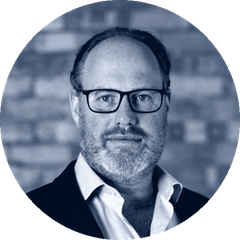
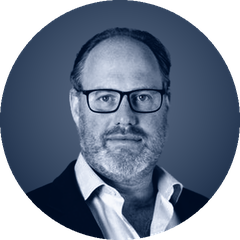
Portrait style: sharp cut-outs on a navy studio backdrop

diff --git a/tools/portrait.py b/tools/portrait.py
@@ -1,10 +1,17 @@
-"""FoundKeys Associates portrait style: navy-blue monochrome, round, 240x240 PNG.
+"""FoundKeys Associates portrait style "navy-studio-v1".
 
+Each person is cut out of their photo, placed on the same soft navy studio backdrop,
+toned in navy-blue monochrome and saved as a round 240x240 transparent PNG.
+If the cut-out tools are missing or fail, it falls back to plain navy monochrome
+of the whole photo and prints "FALLBACK".
+
+Needs: pip install rembg onnxruntime pymatting scipy pillow numpy --break-system-packages
 Usage: python3 -I tools/portrait.py <source image> <output.png>
 """
 import sys
 import numpy as np
 from PIL import Image, ImageDraw, ImageOps
+from scipy import ndimage
 
 # Colour ramp: output luminance -> navy tint (measured from the approved Hayley example).
 RAMP = [  # (level, R, G, B)
@@ -49,15 +56,91 @@ def navy(im):
     return Image.fromarray(rgb, "RGB")
 
 
-def make(src, out):
-    im = ImageOps.exif_transpose(Image.open(src)).convert("RGB")
+def disk(r):
+    y, x = np.ogrid[-r:r+1, -r:r+1]; return x*x + y*y <= r*r
+def cutout(src):
+    """Cut the person out: AI mask, drop people/objects behind, crisp matted edges, no halo."""
+    from rembg import remove, new_session
+    from pymatting import estimate_alpha_cf, estimate_foreground_ml
+    im = ImageOps.exif_transpose(Image.open(src)).convert('RGB')
+    w, h = im.size
+    if min(w, h) < 600:  # work at a decent size for crisper edges
+        k = 600 / min(w, h); im = im.resize((round(w*k), round(h*k)), Image.LANCZOS); w, h = im.size
+    a = np.asarray(remove(im, session=new_session('isnet-general-use'), only_mask=True)).astype(float) / 255
+    b = a > 0.5
+    r = max(4, round(min(w, h) * 0.025))
+    op = ndimage.binary_opening(b, disk(r))          # break thin bridges to things behind
+    lab, n = ndimage.label(op)
+    if n:
+        sizes = ndimage.sum(op, lab, range(1, n+1)); best = int(np.argmax(sizes)) + 1
+        keep = ndimage.binary_dilation(lab == best, disk(r + 2)) & b
+        keep = ndimage.binary_fill_holes(keep)
+        # top of the head: trim narrow lumps (other people's hair behind) with a stronger opening
+        L = round(min(w, h) * 0.12); top = int(h * 0.35)
+        big = ndimage.binary_opening(keep, np.ones((1, L), bool))   # drop rows narrower than L
+        big = ndimage.binary_opening(big, disk(3))
+        lab2, n2 = ndimage.label(big)
+        if n2 > 1:
+            sz = ndimage.sum(big, lab2, range(1, n2 + 1)); big = lab2 == (int(np.argmax(sz)) + 1)
+        keep[:top] = big[:top]
+    else:
+        keep = b
+    # trimap, then closed-form matting for crisp hair edges
+    e = max(2, round(min(w, h) * 0.006))
+    fg = ndimage.binary_erosion(keep, disk(e))
+    bg = ~ndimage.binary_dilation(keep, disk(e))
+    tri = np.full(keep.shape, 0.5); tri[fg] = 1; tri[bg] = 0
+    img = np.asarray(im).astype(float) / 255
+    al = estimate_alpha_cf(img, tri)
+    al = np.clip((al - 0.12) / 0.76, 0, 1)            # firm up the edge, no soft ghosting
+    F = estimate_foreground_ml(img, al)               # remove background colour bleeding (halo)
+    rgba = np.dstack([np.clip(F, 0, 1), al])
+    return Image.fromarray((rgba * 255).round().astype('uint8'), 'RGBA')
+
+
+def backdrop(n=480):
+    yy, xx = np.mgrid[0:n, 0:n]
+    r = np.hypot(xx - n / 2, yy - n * 0.4167) / (n * 0.708)
+    return np.clip(0.42 - 0.30 * r ** 1.6, 0.08, 1)   # lighter behind the head, darker at the edge
+
+
+def square(im):
     w, h = im.size
     s = min(w, h)
     l, t = (w - s) // 2, (h - s) // 2
     if h > w:
         t = max(0, t - int(0.05 * s))
-    im = im.crop((l, t, l + s, t + s)).resize((480, 480), Image.LANCZOS)
-    im = navy(im)
+    return im.crop((l, t, l + s, t + s)).resize((480, 480), Image.LANCZOS)
+
+
+def ramp(v):
+    lv = [q[0] for q in RAMP]
+    return np.stack([np.interp(v, lv, [q[c] for q in RAMP]) for c in (1, 2, 3)], -1).round().astype("uint8")
+
+
+def studio(src):
+    im = square(cutout(src))
+    a = np.asarray(im.getchannel("A")).astype(float) / 255
+    g = np.asarray(im.convert("RGB").convert("L")).astype(float)
+    m = a > 0.5
+    lo, hi = np.percentile(g[m], [0.5, 99.5])
+    g = np.clip((g - lo) / max(1, hi - lo) * 255, 0, 255)
+    lift = face_lift(np.where(m, g, g[m].mean()))
+    x = np.clip(((g / 255) ** lift) ** GAMMA, 0, 1)
+    v = (x * a + backdrop() * (1 - a)) * 255
+    return Image.fromarray(ramp(v), "RGB")
+
+
+def plain(src):
+    return navy(square(ImageOps.exif_transpose(Image.open(src)).convert("RGB")))
+
+
+def make(src, out):
+    try:
+        im = studio(src)
+    except Exception as e:  # cut-out tools missing or failed
+        print("FALLBACK", repr(e)[:200])
+        im = plain(src)
     m = Image.new("L", (480, 480), 0)
     ImageDraw.Draw(m).ellipse((0, 0, 479, 479), fill=255)
     o = Image.new("RGBA", (480, 480), (0, 0, 0, 0))
